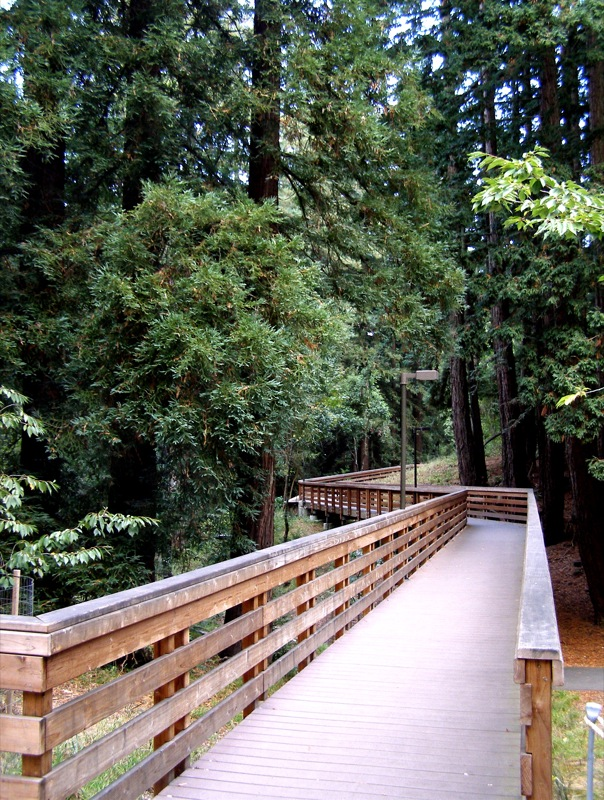
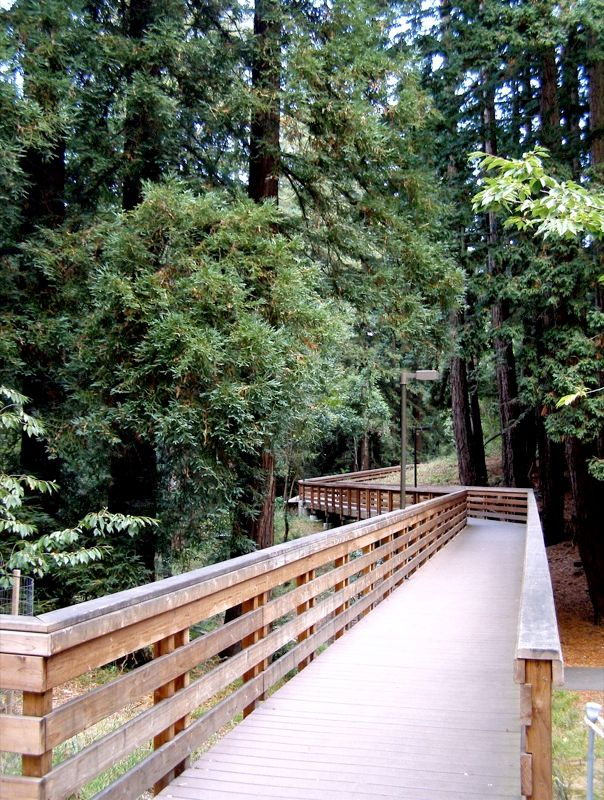
deleted useless import in advising, expo optimize pictures

diff --git a/Source/components/pages/Advising/JackBaskin/Minors/cs_minor.js b/Source/components/pages/Advising/JackBaskin/Minors/cs_minor.js
@@ -1,5 +1,5 @@
 import React from '../../../../../node_modules/react';
-import { TouchableHighlight, Button, Image, Platform, Text, StatusBar,StyleSheet, View } from 'react-native';
+import { TouchableHighlight, Button, Image, StyleSheet, View } from 'react-native';
 import * as WebBrowser from 'expo-web-browser';
 
 export class CS_MinorScreen extends React.Component {

diff --git a/Source/components/pages/Advising/JackBaskin/Minors/EE_Minor.js b/Source/components/pages/Advising/JackBaskin/Minors/EE_Minor.js
@@ -1,5 +1,5 @@
 import React from 'react';
-import { TouchableHighlight, Button, Image, Platform, Text, StatusBar,StyleSheet, View } from 'react-native';
+import { TouchableHighlight, Button, Image, StyleSheet, View } from 'react-native';
 import * as WebBrowser from 'expo-web-browser';
 
 export class EE_Minor_Screen extends React.Component {

diff --git a/Source/components/pages/Advising/JackBaskin/Majors/ce_major.js b/Source/components/pages/Advising/JackBaskin/Majors/ce_major.js
@@ -1,5 +1,5 @@
 import React from 'react';
-import { TouchableHighlight, Button, Image, Platform, Text, StatusBar,StyleSheet, View } from 'react-native';
+import { TouchableHighlight, Button, Image, StyleSheet, View } from 'react-native';
 import * as WebBrowser from 'expo-web-browser';
 
 export class CE_MajorScreen extends React.Component {

diff --git a/Source/components/pages/Advising/JackBaskin/Minors/am_minor.js b/Source/components/pages/Advising/JackBaskin/Minors/am_minor.js
@@ -1,5 +1,5 @@
 import React from 'react';
-import { TouchableHighlight, Button, Image, Platform, Text, StatusBar,StyleSheet, View } from 'react-native';
+import { TouchableHighlight, Button, Image, StyleSheet, View } from 'react-native';
 import * as WebBrowser from 'expo-web-browser';
 
 export class AM_MinorScreen extends React.Component {

diff --git a/Source/components/pages/Advising/JackBaskin/Minors/ce_minor.js b/Source/components/pages/Advising/JackBaskin/Minors/ce_minor.js
@@ -1,5 +1,5 @@
 import React from 'react';
-import { TouchableHighlight, Button, Image, Platform, Text, StatusBar,StyleSheet, View } from 'react-native';
+import { TouchableHighlight, Button, Image, StyleSheet, View } from 'react-native';
 import * as WebBrowser from 'expo-web-browser';
 
 export class CE_MinorScreen extends React.Component {
